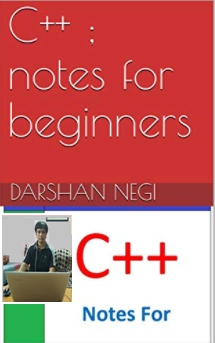
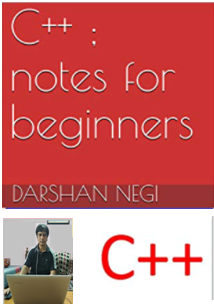
Add files via upload

diff --git a/person.html b/person.html
@@ -84,7 +84,7 @@ window.addEventListener('load', function(event) { initCanvas(); });
 <body bgcolor="yellow">
 
 
-<h1 class = "text-center text-primary text-capitalize font-weight-bold display-2"> My Web page  </h1>
+<h1 class = "text-center text-danger text-capitalize font-weight-bold display-2"> My Special page  </h1>
 
 
 <header> 
@@ -97,23 +97,34 @@ window.addEventListener('load', function(event) { initCanvas(); });
   
   <div class ="row bg-success" mb-5 align="center"> 
 
+
+ <div  class = " col-12 m-1"> 
+      <img src="allbooksmod3.png" class = "img-fluid" width="1600" height="1600"  >  
+      
+
+    </div>
+
+<!---
  
   <div  class = "col-lg-3  col-md-6  col-12   mt-5 mb-5"> 
-      <img src="childsiteimage.png" class = "img-fluid"  width="350" height="350" >  
+      <img src="allbooksmod3.png" class = "img-fluid"  width="400" height="400" >  
 
     </div>
 
-    <div  class = "col-lg-3  col-md-6  col-12 pl-5"> 
-      <img src="BABY.png" class = "img-fluid"  width="400" height="400" >
+
+    <div  class = "col-lg-3  col-md-6  col-12 mt-5 pl-5"> 
+      <img src="Coronabook.png" class = "img-fluid"  width="400" height="400" >
     </div>
 
-    <div  class = "col-lg-3  col-md-6  col-12 pl-5"> 
-      <img src="BABY.png" class = "img-fluid"  width="400" height="400" >
+    <div  class = "col-lg-3  col-md-6  col-12 mt-5 pl-5"> 
+      <img src="codingall2.png" class = "img-fluid"  width="400" height="400" >
     </div>
 
-    <div  class = "col-lg-3  col-md-6  col-12 mt-5"> 
-     <img src="self.png" class = "img-fluid p-3"  width="250" height="250" >   
+    <div  class = "col-lg-3  col-md-6  col-12 mt-5  "> 
+     <img src="cppJava.png" class = "img-fluid"   width="400" height="400" >   
    </div>
+
+ -->
 
 
  </div>
